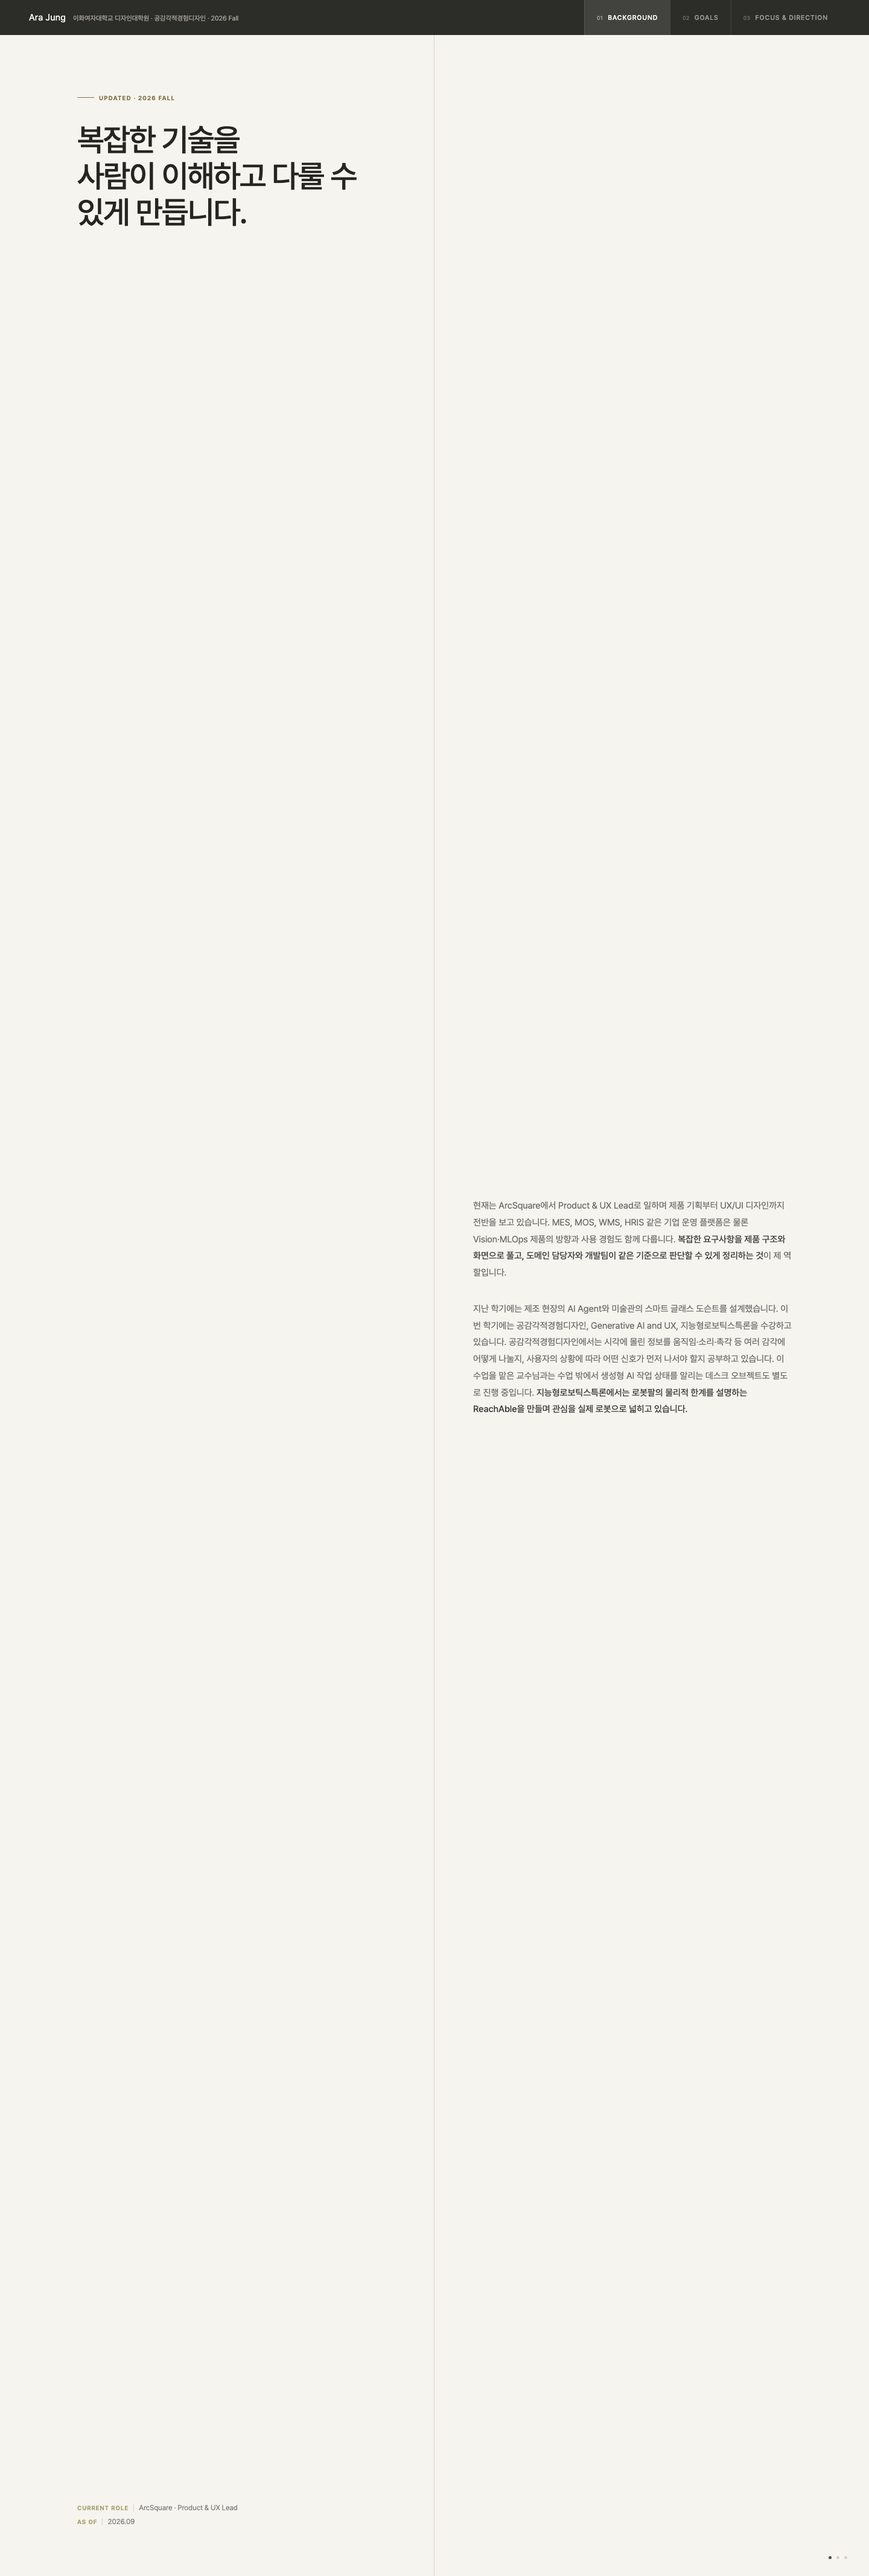
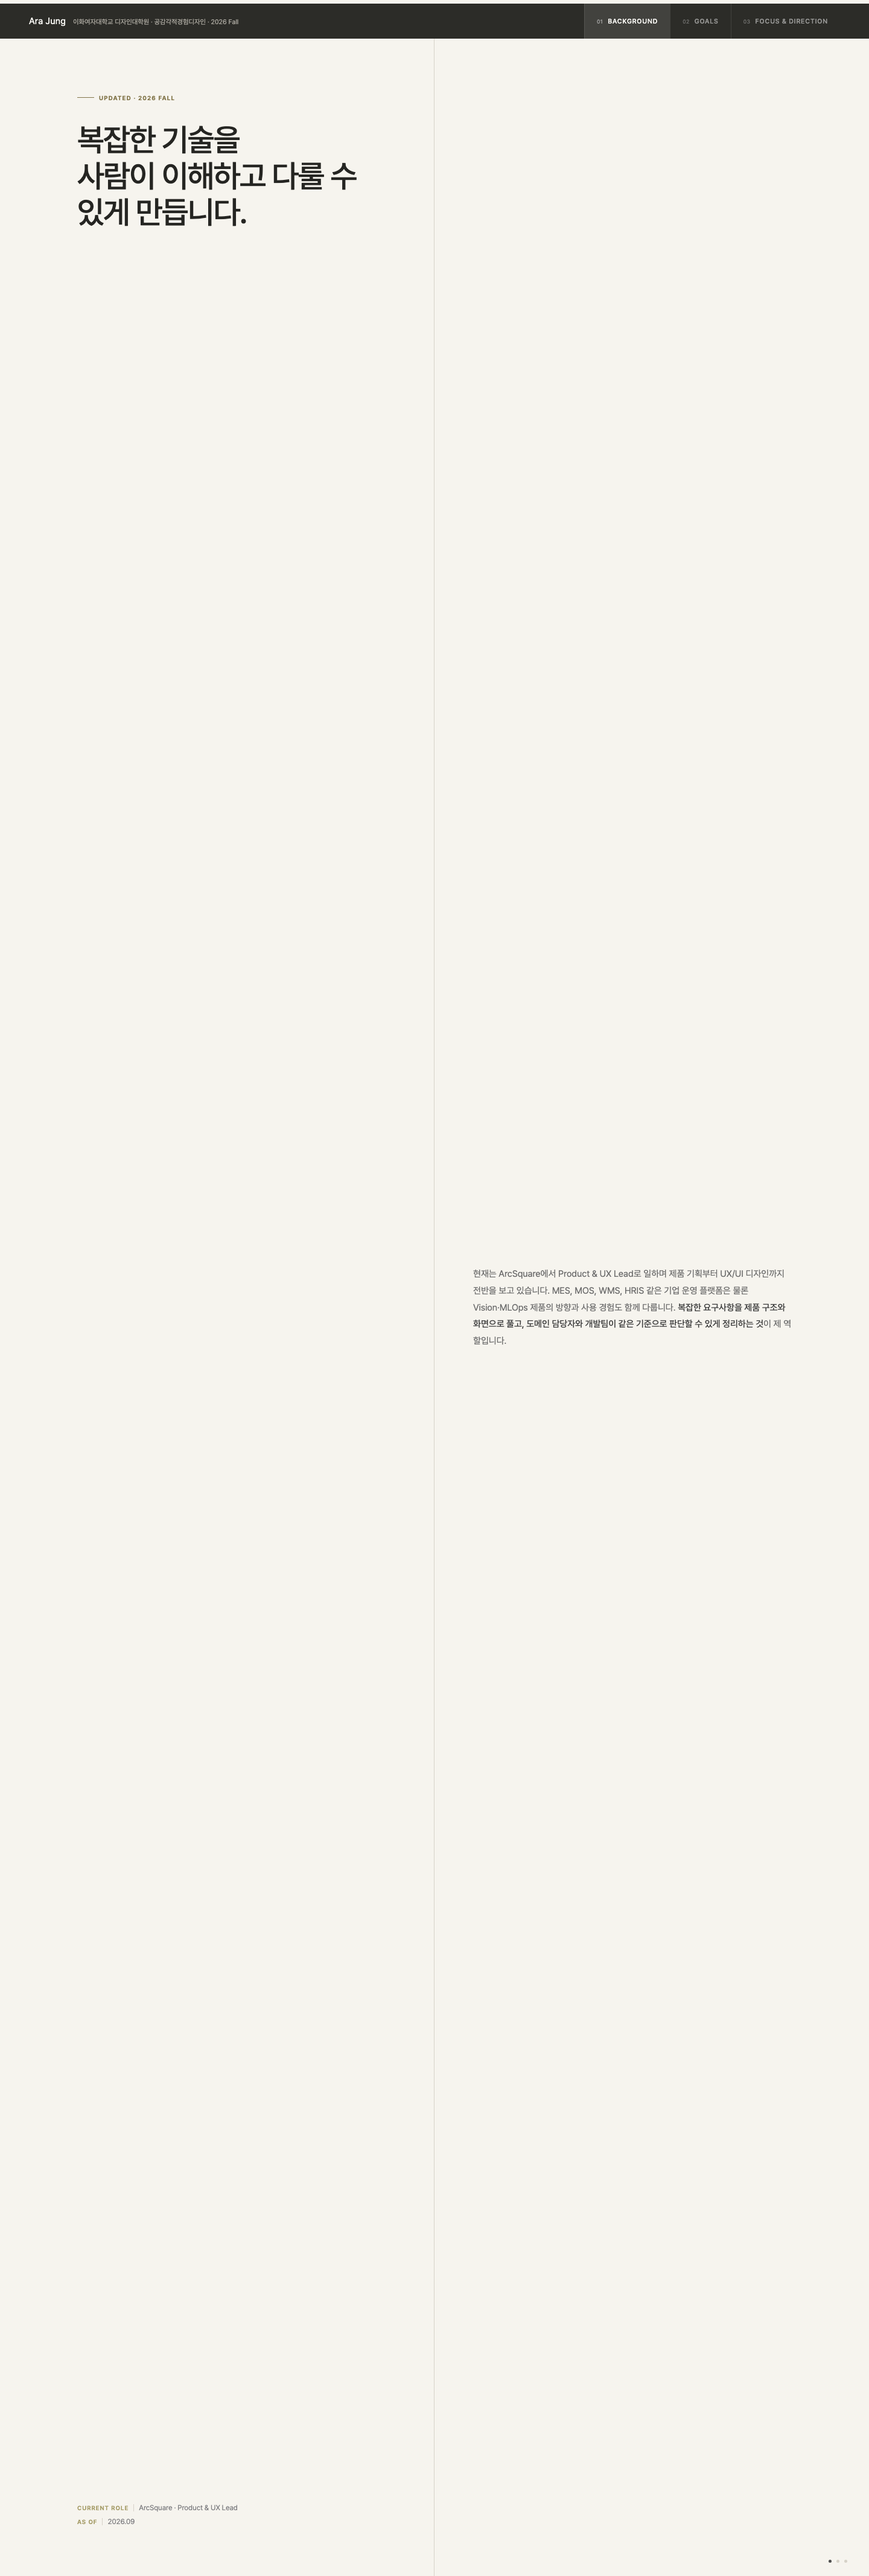
Align narrative with assignment brief

Changed region(s): [[0.5312, 0.4675, 0.9062, 0.561], [0.6875, 0.0, 0.9688, 0.0312], [0.0312, 0.0, 0.2812, 0.0312]]

diff --git a/index.html b/index.html
@@ -226,10 +226,6 @@
       color: #6d6d6d;
     }
 
-    .hero-intro + .hero-intro {
-      margin-top: 32px;
-    }
-
     /* ── SECTION TITLE ROW ── */
     .section-title-row {
       max-width: 1280px;
@@ -1378,9 +1374,6 @@
       <div class="hero-intro">
         현재는 ArcSquare에서 Product &amp; UX Lead로 일하며 제품 기획부터 UX/UI 디자인까지 전반을 보고 있습니다. MES, MOS, WMS, HRIS 같은 기업 운영 플랫폼은 물론 Vision·MLOps 제품의 방향과 사용 경험도 함께 다룹니다. <strong style="color:#3d3d3d">복잡한 요구사항을 제품 구조와 화면으로 풀고, 도메인 담당자와 개발팀이 같은 기준으로 판단할 수 있게 정리하는 것</strong>이 제 역할입니다.
       </div>
-      <div class="hero-intro">
-        지난 학기에는 제조 현장의 AI Agent와 미술관의 스마트 글래스 도슨트를 설계했습니다. 이번 학기에는 공감각적경험디자인, Generative AI and UX, 지능형로보틱스특론을 수강하고 있습니다. 공감각적경험디자인에서는 시각에 몰린 정보를 움직임·소리·촉각 등 여러 감각에 어떻게 나눌지, 사용자의 상황에 따라 어떤 신호가 먼저 나서야 할지 공부하고 있습니다. 이 수업을 맡은 교수님과는 수업 밖에서 생성형 AI 작업 상태를 알리는 데스크 오브젝트도 별도로 진행 중입니다. <strong style="color:#3d3d3d">지능형로보틱스특론에서는 로봇팔의 물리적 한계를 설명하는 ReachAble을 만들며 관심을 실제 로봇으로 넓히고 있습니다.</strong>
-      </div>
     </div>
   </div>
 
@@ -1556,7 +1549,7 @@
         <div class="who-card">
           <div class="who-card-num">What comes next</div>
           <div class="who-card-title">감각과 움직임으로 질문을 넓힌다</div>
-          <div class="who-card-body">공감각적경험디자인에서는 감각마다 다른 역할과 개입 시점을 살펴보고 있습니다. 같은 교수님과 수업 외 별도 프로젝트로 진행하는 데스크 오브젝트에서는 이 질문을 움직임·빛·촉각으로 직접 만들어봅니다. 지능형로보틱스특론의 ReachAble은 같은 관심을 실제 로봇의 작업 범위와 실패 회복으로 확장한 프로젝트입니다.</div>
+          <div class="who-card-body">대학원에서는 AI와 로봇이 자신의 상태와 한계를 어떻게 드러내야 하는지, 사람은 어느 순간 개입해야 하는지를 공부하고 있습니다. 데스크 오브젝트와 ReachAble을 만들며 화면에서 다루던 질문을 움직임·빛·촉각과 실제 로봇의 작동으로 옮겨보고 있습니다.</div>
         </div>
       </div>
     </div>
@@ -1564,8 +1557,8 @@
 
   <section class="semester-section" aria-labelledby="semester-update-title">
     <div class="semester-section-head">
-      <h2 class="semester-section-title" id="semester-update-title">Last Semester</h2>
-      <p class="semester-section-desc">첫 학기에는 ‘신뢰’를 설명하는 데서 멈추지 않고, 실제 인터페이스 안에서 무엇을 보여주고 무엇을 선택하게 할지 설계했습니다.</p>
+      <h2 class="semester-section-title" id="semester-update-title">2026 Spring · Graduate Work</h2>
+      <p class="semester-section-desc">대학원에서는 AI가 개입하는 순간에 사용자가 무엇을 보고 결정해야 하는지 두 프로젝트로 구체화했습니다.</p>
     </div>
     <div class="project-update-grid">
       <article class="project-update">
@@ -1585,14 +1578,14 @@
 
   <section class="semester-section" aria-labelledby="current-semester-title">
     <div class="semester-section-head">
-      <h2 class="semester-section-title" id="current-semester-title">This Semester</h2>
-      <p class="semester-section-desc">공감각적경험디자인에서 배우는 멀티모달 UX를 중심으로, 같은 교수님과 수업 외 별도로 진행하는 프로젝트와 로보틱스 수업 작업을 함께 기록했습니다.</p>
+      <h2 class="semester-section-title" id="current-semester-title">2026 Fall · Current Work</h2>
+      <p class="semester-section-desc">현재는 화면 안에서 다루던 상태와 개입 문제를 움직임과 촉각, 실제 로봇의 동작으로 확장하고 있습니다.</p>
     </div>
     <div class="project-update-grid">
       <article class="project-update">
-        <div class="project-meta">01 · Faculty Collaboration · HRI / Physical Interaction</div>
+        <div class="project-meta">01 · HRI / Physical Interaction</div>
         <h3 class="project-title">생성형 AI 작업 상태를 알리는 데스크 오브젝트</h3>
-        <p class="project-body">공감각적경험디자인을 맡은 교수님과 수업 밖에서 별도로 진행하는 프로젝트입니다. 생성형 AI가 처리 중인지, 입력을 기다리는지, 완료됐는지 확인하느라 작업 화면을 반복해서 여는 문제에서 시작했습니다. 작업 상태를 움직임·빛·촉각으로 구분하고, 필요할 때 작업을 멈추거나 관련 화면을 불러오는 작은 오브젝트를 만들고 있습니다.</p>
+        <p class="project-body">생성형 AI가 처리 중인지, 입력을 기다리는지, 완료됐는지 확인하느라 작업 화면을 반복해서 여는 문제에서 시작했습니다. 작업 상태를 움직임·빛·촉각으로 구분하고, 필요할 때 작업을 멈추거나 관련 화면을 불러오는 작은 오브젝트를 만들고 있습니다.</p>
         <p class="project-learning">지금 확인하는 것 · 피지컬 신호가 화면 확인을 줄이면서도 새로운 방해가 되지 않는지, 물리 오브젝트와 화면의 역할을 어디에서 나눠야 하는지 살펴보고 있습니다.</p>
       </article>
       <article class="project-update">
@@ -1626,10 +1619,10 @@
 
   <div class="goals-hero">
     <h1 class="goals-headline">
-      지난 학기의 작업을<br />다음 질문으로 이어갑니다.
+      대학원에서는 질문을 세우고<br />직접 만들어 검증하고 있습니다.
     </h1>
     <div class="goals-intro">
-      첫 학기에는 AI가 개입하는 경험에서 신뢰가 어떻게 생기는지 살펴봤습니다. 제조 현장에서는 실행 범위와 책임의 경계가 중요했고, 미술관에서는 개입 시점과 절제가 중요했습니다. 이번 학기에는 공감각적경험디자인에서 시각·소리·촉각·움직임이 각각 어떤 역할을 맡아야 하는지 더 깊이 다룹니다. <strong style="color:#3d3d3d">이 수업을 맡은 교수님과 수업 외 별도 프로젝트로 진행하는 데스크 오브젝트를 통해 감각적인 피드백을 직접 만들고, 지능형로보틱스특론의 ReachAble로 같은 질문을 로봇 인터랙션까지 넓혀보고 있습니다.</strong>
+      대학원에서의 목표는 AI와 로봇이 먼저 행동하는 상황에서 사람이 상태를 이해하고 개입하는 방식을 연구하는 것입니다. MES AI Agent에서는 실행 범위와 책임의 경계를, 스마트 글래스에서는 개입 시점과 정보량을 다뤘습니다. <strong style="color:#3d3d3d">지금은 데스크 오브젝트와 ReachAble을 통해 이 질문을 움직임·빛·촉각과 실제 로봇으로 옮겨보고 있습니다.</strong>
     </div>
   </div>
 
@@ -1652,10 +1645,10 @@ AI가 화면 밖으로 나오면, 상태를 알리는 방식과 사람이 개입
       </div>
       <div class="timeline-line"></div>
       <div class="timeline-content">
-        <div class="goal-label" style="color:#b8aa78">This Semester · 2026 Fall</div>
+        <div class="goal-label" style="color:#b8aa78">Graduate Study · Current</div>
         <div class="timeline-title">감각과 움직임으로 시스템의 상태를 이해하게 만들기</div>
         <div class="timeline-body">
-          공감각적경험디자인에서는 같은 정보를 여러 채널로 반복하기보다, 상황에 맞게 감각의 역할과 강도를 나누는 법을 배우고 있습니다. 교수님과 수업 외 별도 프로젝트로 진행하는 데스크 오브젝트에서는 생성형 AI의 처리 중·입력 필요·완료 상태를 움직임과 빛, 촉각으로 구분합니다. ReachAble에서는 로봇팔의 작업 범위와 실패 이유를 보여주고 사용자가 대체 위치를 승인하도록 설계했습니다. <strong>시스템의 내부 상태를 사용자가 다음 행동을 정할 수 있는 신호로 바꾸는 것</strong>이 이번 학기의 목표입니다.
+          데스크 오브젝트에서는 생성형 AI의 처리 중·입력 필요·완료 상태를 움직임과 빛, 촉각으로 구분합니다. ReachAble에서는 로봇팔의 작업 가능 범위와 실패 이유를 보여주고 사용자가 대체 위치를 승인하도록 설계했습니다. 두 프로젝트의 가설과 비교 조건을 정리하고 관찰과 인터뷰로 결과를 남기며, <strong>시스템의 내부 상태를 사용자가 다음 행동을 정할 수 있는 신호로 바꾸는 방법</strong>을 구체화하려 합니다.
         </div>
         <div class="timeline-tags">
           <span class="ttag">Multimodal UX</span>
@@ -1772,7 +1765,7 @@ AI가 화면 밖으로 나오면, 상태를 알리는 방식과 사람이 개입
   <div class="targets-hero">
     <h1 class="targets-headline">제품에서 시작한 질문을<br />HRI 연구로 이어갑니다.</h1>
     <div class="goals-intro">
-      제조 현장의 AI Agent와 미술관의 스마트 글래스에서 시작한 관심은 이번 학기의 공감각적경험디자인과 교수님과의 별도 프로젝트를 거치며 움직임·빛·촉각으로 넓어지고 있습니다. 지능형로보틱스특론의 ReachAble은 이 질문을 실제 로봇의 한계와 사용자 개입으로 옮겨보는 또 하나의 시도입니다. 장기적으로는 이 흐름을 HRI 박사과정에서 더 깊이 연구하고 싶습니다. <strong style="color:#3d3d3d">MIT와 Stanford를 우선순위로 두고 있지만, 지금은 각각의 프로젝트에서 연구 질문을 꺼내고 직접 검증하는 준비부터 시작하고 있습니다.</strong>
+      제조 현장의 AI Agent와 미술관의 스마트 글래스에서 시작한 관심은 데스크 오브젝트와 ReachAble을 만들며 움직임·빛·촉각과 실제 로봇의 한계로 넓어졌습니다. 장기적으로는 이 흐름을 HRI 박사과정에서 더 깊이 연구하고 싶습니다. <strong style="color:#3d3d3d">MIT와 Stanford를 우선순위로 두고 있지만, 지금은 각 프로젝트에서 연구 질문을 꺼내고 직접 검증하는 준비부터 시작하고 있습니다.</strong>
     </div>
   </div>
 
@@ -1893,7 +1886,7 @@ AI가 화면 밖으로 나오면, 상태를 알리는 방식과 사람이 개입
       <div class="org-main">
         <div class="org-main-title">학교를 정하는 일보다 먼저, 연구 질문을 선명하게 만드는 단계</div>
         <div class="org-main-body">
-          MIT와 Stanford가 현재의 우선순위이지만, 학교 이름만으로 진학 방향을 정하고 싶지는 않습니다. 공감각적경험디자인과 현재의 피지컬 인터랙션 프로젝트를 통해 <strong>움직임과 주변부 신호가 사람의 이해를 어떻게 돕는지, 로봇과 AI가 사람의 개입을 어떤 방식으로 받아야 하는지</strong>를 관찰하고 기록하는 것이 먼저입니다.
+          MIT와 Stanford가 현재의 우선순위이지만, 학교 이름만으로 진학 방향을 정하고 싶지는 않습니다. 현재 진행 중인 데스크 오브젝트와 ReachAble을 통해 <strong>움직임과 주변부 신호가 사람의 이해를 어떻게 돕는지, 로봇과 AI가 사람의 개입을 어떤 방식으로 받아야 하는지</strong>를 관찰하고 기록하는 것이 먼저입니다.
         </div>
         <div class="org-main-tags">
           <span class="org-badge">Research Question</span>
@@ -1937,7 +1930,7 @@ AI가 화면 밖으로 나오면, 상태를 알리는 방식과 사람이 개입
     </div>
     <div class="who-inner" style="padding-top:32px; padding-bottom:56px;">
       <div class="direction-body">
-        첫 학기에는 화면 안에서 AI의 실행 범위와 개입 시점을 다뤘습니다. 이번 학기에는 공감각적경험디자인에서 감각 채널과 맥락을 설계하는 법을 배우고, 같은 교수님과 수업 외 별도 프로젝트로 진행하는 데스크 오브젝트로 AI의 작업 상태를 움직임·빛·촉각에 옮겨보고 있습니다. ReachAble은 이 관심을 실제 로봇의 작업 범위와 실패 회복으로 확장한 수업 프로젝트입니다. 장기적으로는 <strong>MIT와 Stanford의 관련 연구실을 우선으로 HRI 박사과정에 진학해</strong>, AI나 로봇이 먼저 행동할 때 사람이 상태를 이해하고 필요하면 개입할 수 있는 방식을 연구하고 싶습니다.
+        기업용 제품에서 AI의 상태·권한·개입 문제를 다뤄왔고, 대학원에서는 이를 감각적 피드백과 로봇 상호작용으로 넓히고 있습니다. 데스크 오브젝트로 AI의 작업 상태를 움직임·빛·촉각에 옮기고, ReachAble로 로봇의 작업 범위와 실패 회복을 다룹니다. 장기적으로는 <strong>MIT와 Stanford의 관련 연구실을 우선으로 HRI 박사과정에 진학해</strong>, AI나 로봇이 먼저 행동할 때 사람이 상태를 이해하고 필요하면 개입할 수 있는 방식을 연구하고 싶습니다.
       </div>
     </div>
   </div>

diff --git a/README.md b/README.md
@@ -4,8 +4,8 @@
 
 ## 구성
 
-- Background: 경력, 첫 학기 프로젝트, 현재 수강 과목과 진행 중인 프로젝트
-- Goals: 2학기 계획과 중장기 목표
-- Focus & Direction: 현재의 연구 관심, MIT·Stanford HRI 연구 환경, 박사과정 준비 방향
+- Background: 대학원 진학 전 경력, 현재 실무, 대학원에서 진행한 프로젝트
+- Goals: 대학원에서의 목표, 현재 검증 방식, 중장기 계획
+- Focus & Direction: 관심 분야, MIT·Stanford HRI 연구 환경, 박사과정 준비 방향
 
 빌드 과정이 없는 단일 정적 HTML 페이지입니다. `index.html`을 브라우저에서 열면 바로 확인할 수 있습니다.
